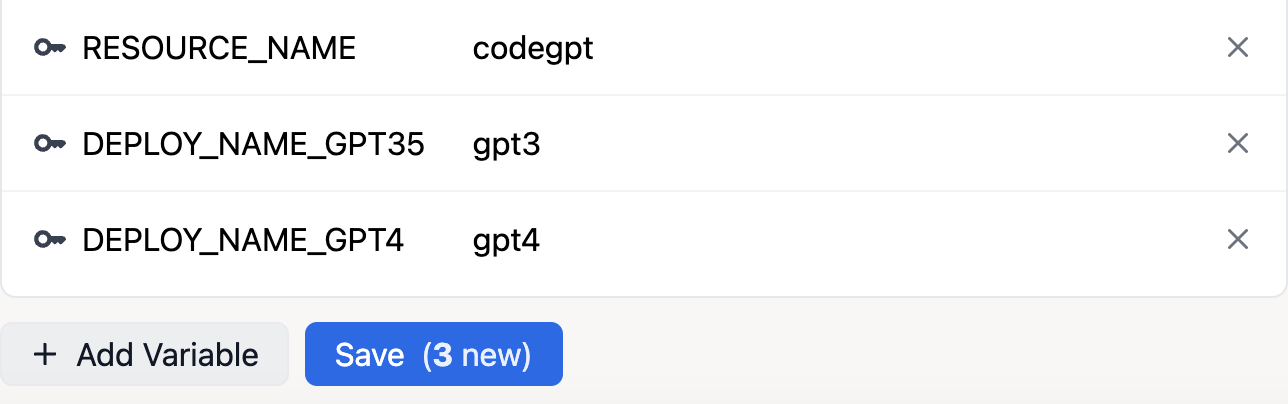
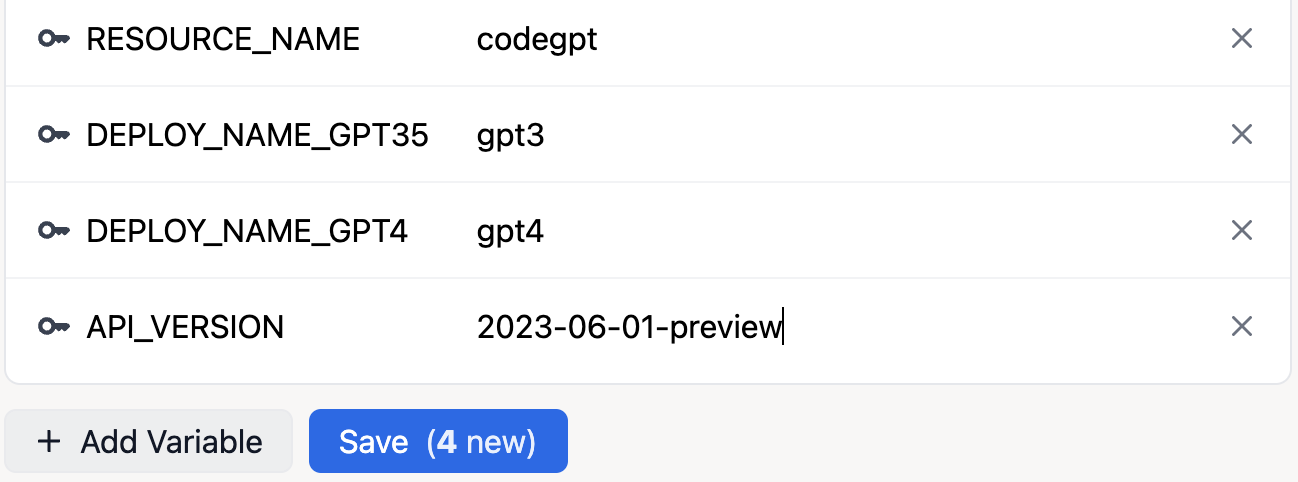
support custom apiversion

diff --git a/README_en.md b/README_en.md
@@ -13,6 +13,7 @@ A proxy tool deployed on Deno Deploy that can convert an OpenAI request into an 
 5. Supports mapper, which allows for custom model mapping rules，also supports directly passing through the model name.
 6. No server required, free online deployment, with a daily limit of 100,000 requests.
 # Update
+- 23.6.16 Update to support custom api version, see the specific version on [ApiVersion](https://learn.microsoft.com/zh-cn/azure/cognitive-services/openai/reference).
 - 23.5.30 update apiVersion and improve response speed.
 - 23.5.2 Update support fot the embeddings interface, thanks to the amazing [Shuenhoy](https://github.com/Shuenhoy/deno-azure-openai-proxy)!
 - 23.4.27 Update support for setting the values of resourceName and mapper through environment variables, as well as support for one-click deployment.

diff --git a/README.md b/README.md
@@ -15,6 +15,7 @@
 5. 支持mapper，可以自定义模型映射规则，也支持直接透传模型名
 6. 无需服务器，免费在线部署，每日10万次请求额度
 # 更新
+- 23.6.16 更新支持自定义api版本，具体版本见[ApiVersion](https://learn.microsoft.com/zh-cn/azure/cognitive-services/openai/reference)
 - 23.5.30 更新apiVersion并提升响应速度
 - 23.5.2 更新支持embeddings接口(感谢[Shuenhoy](https://github.com/Shuenhoy/deno-azure-openai-proxy))
 - 23.4.27 更新支持环境变量设置resourceName和mapper的值以及支持一键部署
